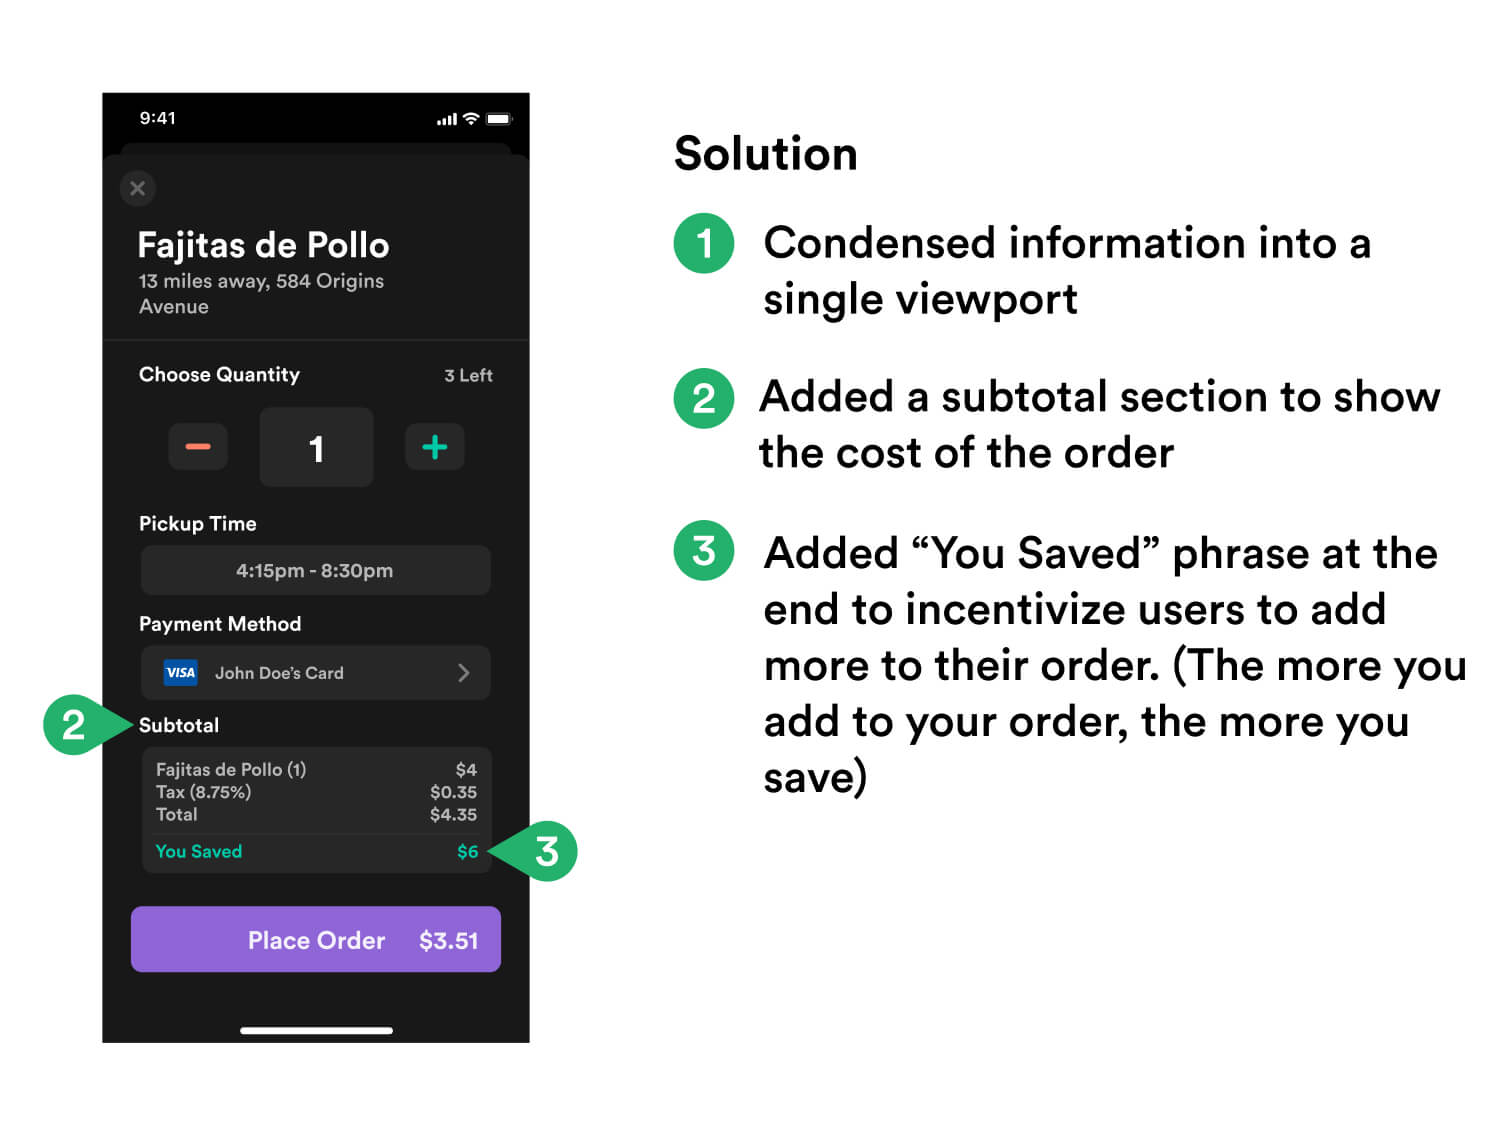
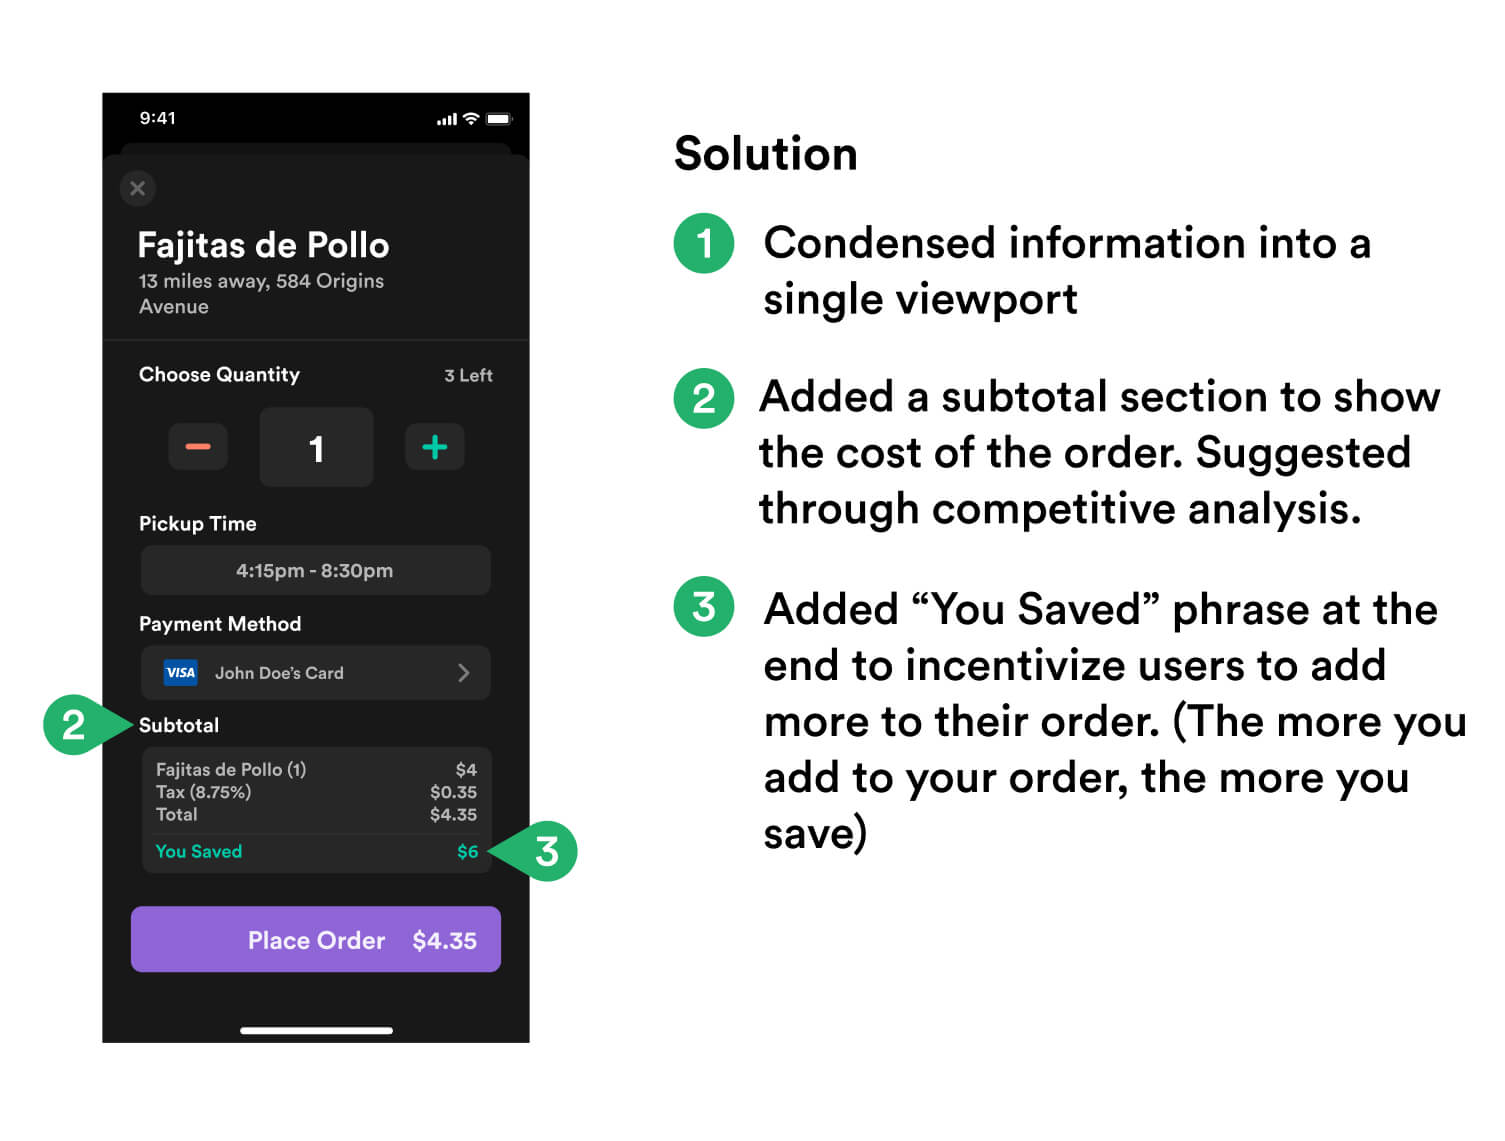
servey

Changed region(s): [[0.4372, 0.3681, 0.9681, 0.7669], [0.2811, 0.7975, 0.3123, 0.8589]]

diff --git a/src/pages/provisionscase.js b/src/pages/provisionscase.js
@@ -10,6 +10,9 @@ import oldpics from "../images/provisions-imgs/oldpics.jpg"
 import newpics from "../images/provisions-imgs/newpics.jpg"
 import inspir from "../images/provisions-imgs/inspir.jpg"
 import layout from "../images/provisions-imgs/layout.jpg"
+import competitors from "../images/provisions-imgs/competitors.jpg"
+import survey from "../images/provisions-imgs/survey.jpg"
+import persona from "../images/provisions-imgs/persona.jpg"
 
 // Problems / Soulutions
 import prob1 from "../images/provisions-imgs/problempics/prob1.jpg"
@@ -90,7 +93,7 @@ const CaseStudy = () => (
         <div>
           <div className={caseStyle.flexcontaineroverviewfirst}>
             <h1 className={caseStyle.flextitleoverview}>Original Design</h1>
-            <p className={caseStyle.overviewdescription}>The first step is to ask questions about the vision and design inspiration for the app. Upon the initial discussion with the creator of the app, the main feature of the app is the swipe card mechanic which allows the user to swipe through different food options. The original design was inspired by Figma’s website with its use of color and bold font.</p>
+            <p className={caseStyle.overviewdescription}>The first step is to ask questions about the vision and design inspiration for the app. The main feature of the app is the swipe card mechanic which allows the user to swipe through different food options. The original design was inspired by Figma’s website with its use of color and bold font.</p>
           </div>
 
           {/* Center Big Image */}
@@ -100,8 +103,32 @@ const CaseStudy = () => (
           </div>
 
           <div className={caseStyle.flexcontaineroverviewfirst}>
+            <h1 className={caseStyle.flextitleoverview}>Conducting a <br></br>Survey</h1>
+            <p className={caseStyle.overviewdescription}>I chose to run a survey through Google forms to find out impressions about the original design. I also asked the participant's age to find out what demographic I need to design for. Due to the time constraint, I surveyed 31 participants through Slack and LinkedIn.</p>
+          </div>
+
+          <div className={caseStyle.flexSideImageContainer}>
+            <h1 className={caseStyle.flextitleoverview}></h1>
+            <div className={caseStyle.flexTextContainer}>
+              <img className={caseStyle.styleguideImg} src={survey} alt="Survey"></img>
+              <p className={caseStyle.imgdescriptext}>Survey</p>
+            </div>
+          </div>
+
+          <div className={caseStyle.flexcontaineroverviewfirst}>
+            <h1 className={caseStyle.flextitleoverview}>Who is the User?</h1>
+            <p className={caseStyle.overviewdescription}>From the survey, users are mid 20s to early 30s. We could infer that the users are Millennials. The design must appeal to that demographic. Millennials are used to getting necessary information instantly. I want to make sure the app is easy to use and requires little thinking from the user.</p>
+          </div>
+
+          {/* Center Big Image */}
+          <div className={caseStyle.figmacontrainer}>
+            <img src={persona} alt="Persona"></img>
+            <p className={caseStyle.imgdescriptextCenter}>Persona</p>
+          </div>
+
+          <div className={caseStyle.flexcontaineroverviewfirst}>
             <h1 className={caseStyle.flextitleoverview}>Differentiation from Competition</h1>
-            <p className={caseStyle.overviewdescription}>I then created a Figma file and invited the creator of the app to show him some design inspiration for the app. I shared images to get an understanding of the design he’s looking for. The images ranged from watercolor to a paper texture design. But the image that stood out the most was this one. The way the pink and orange contrasted with the dark background made the items pop.</p>
+            <p className={caseStyle.overviewdescription}>I then created a Figma file and invited the founder of the app to show him some design inspiration for the app. The image that stood out the most was this. The way the pink and orange contrasted with the dark background made the items pop.</p>
           </div>
 
           <div className={caseStyle.flexSideImageContainer}>
@@ -124,12 +151,23 @@ const CaseStudy = () => (
           <div className={caseStyle.underlinetitle}></div>
         </div>
 
+        <div className={caseStyle.flexcontaineroverviewfirst}>
+            <h1 className={caseStyle.flextitleoverview}>Why the switch to <br></br>dark theme?</h1>
+            <p className={caseStyle.overviewdescription}>The main reason for the switch was to stand out the competition. I surveyed participants on their impression on the theme choice. And participants responded positively with the neon dark theme. Other surplus food apps in the market are light theme with one main primary color.</p>
+          </div>
+
+          {/* Center Big Image */}
+          <div className={caseStyle.figmacontrainer}>
+            <img src={competitors} alt="Competitors"></img>
+            <p className={caseStyle.imgdescriptextCenter}>Competitors</p>
+          </div>
+
         <div>
           <div className={caseStyle.flexcontaineroverviewfirst}>
             <h1 className={caseStyle.flextitleoverview}>Findings from <br></br>Research</h1>
             <div className={caseStyle.flexTextContainer}>
-              <p className={caseStyle.overviewdescription}>I then walked myself into the user journey. Since the user is picking the food up from the restaurant. Having the number of miles between the user and the restaurant is useful information to show how far the restaurant is from the user’s current location.</p>
-              <p className={caseStyle.overviewdescription}>This was one of many design improvements I came up with during this phase. In summary, the user journey involved the user to swipe the food item, place order, and open directions. Also having a screen to show current orders.</p>
+              <p className={caseStyle.overviewdescription}>From the survey, the most amount of feedback came from the swipe screen and placing an order. Participants wanted the price of the food item shown in the swipe screen. The swipe feature wasn’t clear to the participants. Others wanted to know how far they must drive to pick up their order.</p>
+              <p className={caseStyle.overviewdescription}>After purchasing the order, participants felt lost. They wanted to know where to pick up their order and show directions to the restaurant. Others felt placing an order can done in one screen instead of two.</p>
             </div>
           </div>
 
@@ -141,7 +179,7 @@ const CaseStudy = () => (
 
           <div className={caseStyle.flexcontaineroverviewfirst}>
             <h1 className={caseStyle.flextitleoverview}>Flow of the App</h1>
-            <p className={caseStyle.overviewdescription}>The app is tab bar based which is recommended by Apple’s Human Interface Guidelines which allows users to quickly switch into different sections of an app. In this case, I chose 3 sections which include account, orders, and explore (swipe feature). This is where color came into play and color coded the different sections.</p>
+            <p className={caseStyle.overviewdescription}>The app is tab bar based which is recommended by Apple’s Human Interface Guidelines which allows users to quickly switch into different sections of an app. After competitive analysis, I chose 3 sections: account, orders, and explore (swipe feature). This is where color came into play and color coded the different sections.</p>
           </div>
 
           <div className={caseStyle.flexSideImageContainer}>
@@ -230,7 +268,7 @@ const CaseStudy = () => (
         </div>
 
         <div className={caseStyle.reflectionContainer}>
-          <p className={caseStyle.reflectiontext}>This project consisted of time management and collaboration with the owner of the startup. This is extremely important in bigger companies that want products as fast as possible to turn a profit for the investors. It’s all about investor return and collaborating with people outside of the design loop. And explaining the importance of good design and user experience.</p>
+          <p className={caseStyle.reflectiontext}>This project consisted of time management and collaboration. This is extremely important in bigger companies that want products as fast as possible to turn a profit for the investors. It’s all about investor return and collaborating with people outside of the design loop. And explaining the importance of good design and user experience.</p>
         </div>
 
       </section>
